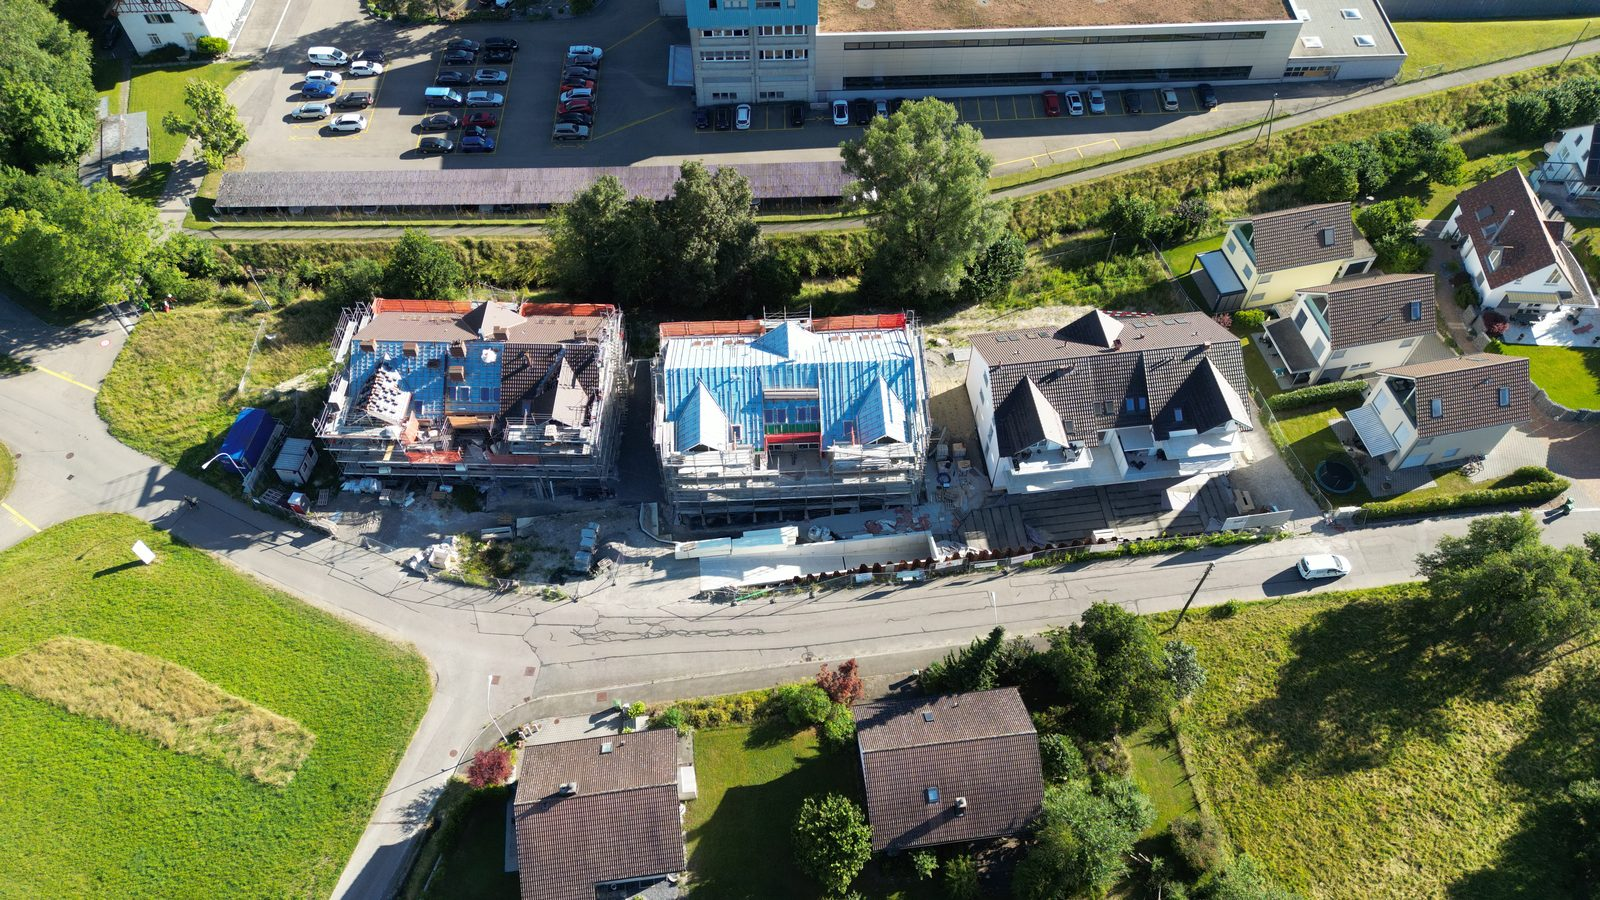
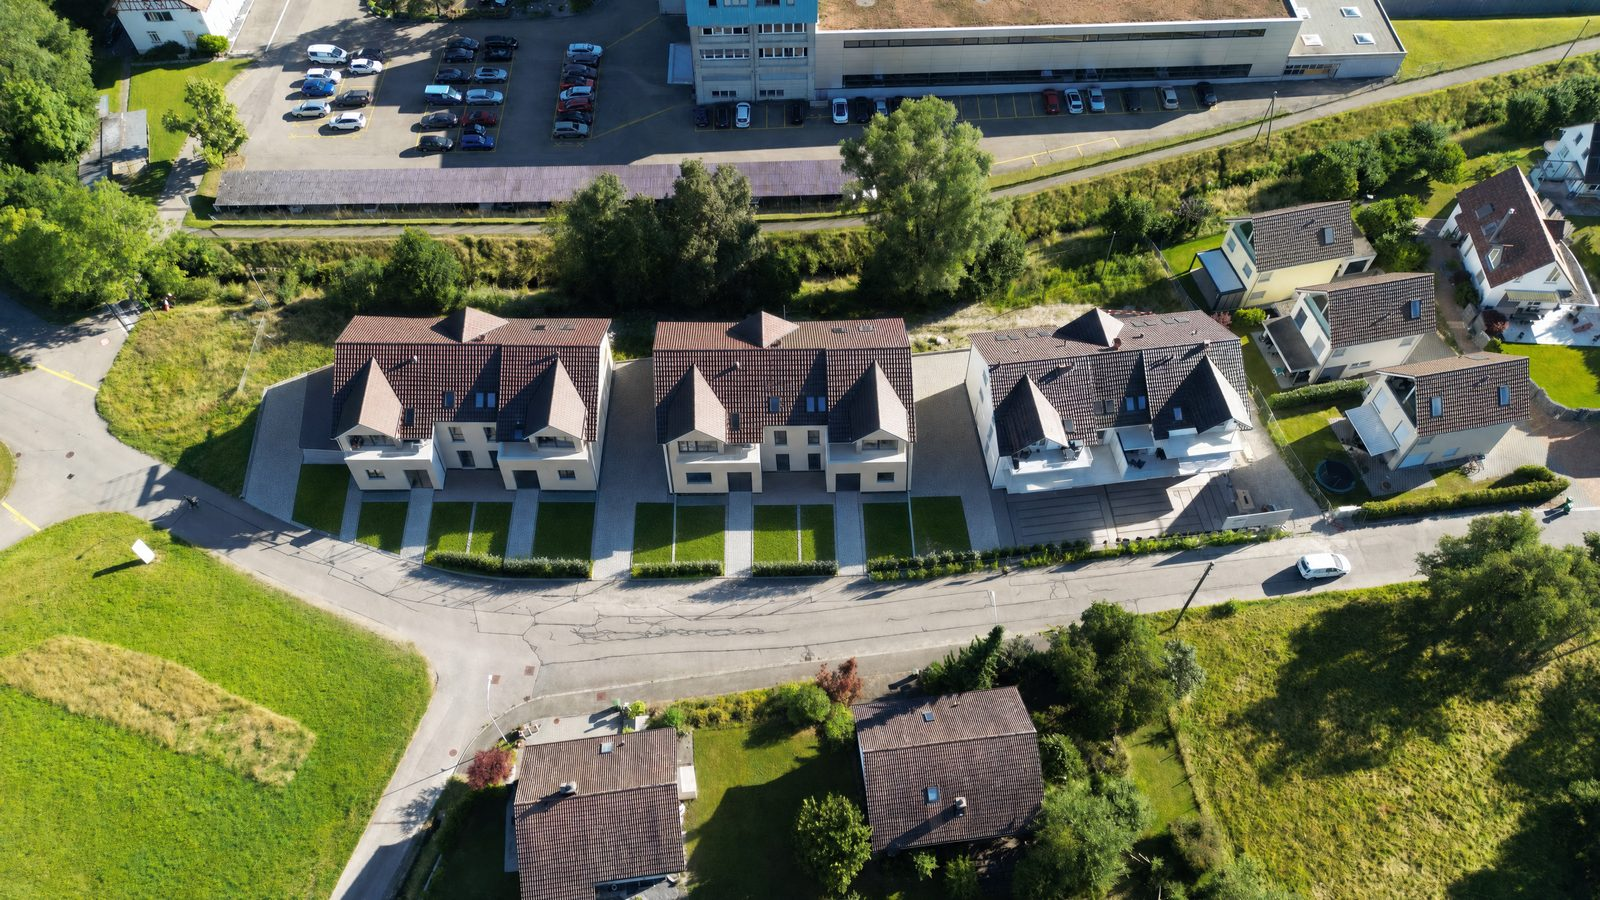
Niederweningen: KI-Visualisierung des Endzustands als Titelbild, klar gekennzeichnet
Thumbnail/Hero jetzt eine KI-bearbeitete Fassung der Drohnenaufnahme ohne
Baustelle (Gerüst, Baumaterial entfernt, Dach/Fassade als fertig
dargestellt). In Beschreibung und FAQ explizit als Visualisierung
gekennzeichnet, nicht als echtes Foto — die echten Baufortschritts-Fotos
bleiben unverändert in der Galerie.

diff --git a/src/data/projekte.ts b/src/data/projekte.ts
@@ -1096,7 +1096,7 @@ export const projekte: Projekt[] = [
     kategorien: ['Neubau', 'Wohnen'],
     leistungen: ['Projektierung'],
     beschreibung:
-      'Mehrfamilienhaus an der Murzelnstrasse in Niederweningen (ZH): zwei Neubauten neben einem bestehenden Gebäude, aktuell im Rohbau mit Dachstuhl und Fassade im Bau. Luftaufnahmen von der Baustelle dokumentieren den Baufortschritt.',
+      'Mehrfamilienhaus an der Murzelnstrasse in Niederweningen (ZH): zwei Neubauten neben einem bestehenden Gebäude. Das Titelbild ist eine KI-bearbeitete Visualisierung auf Basis einer Drohnenaufnahme und zeigt den geplanten Endzustand; die Galerie zeigt den echten Baufortschritt.',
     abschnitte: [],
     daten: [
       { label: 'Gebäudetyp', wert: 'Mehrfamilienhaus, Neubau' },
@@ -1104,9 +1104,9 @@ export const projekte: Projekt[] = [
     ],
     fragen: [
       {
-        frage: 'In welcher Bauphase ist das Projekt?',
+        frage: 'Ist das Titelbild ein echtes Foto vom fertigen Haus?',
         antwort:
-          'Die Rohbauten stehen, Dachstuhl und Fassade sind im Bau. Die Luftaufnahmen zeigen den aktuellen Baufortschritt. Fotos der fertiggestellten Häuser ergänzen wir nach Bezug.',
+          'Nein. Es ist eine KI-bearbeitete Visualisierung auf Basis einer Drohnenaufnahme der Baustelle und zeigt den geplanten Endzustand. Die Bauten sind aktuell im Rohbau, Dachstuhl und Fassade im Bau — echte Fotos vom aktuellen Baufortschritt finden Sie in der Galerie. Fotos der fertiggestellten Häuser ergänzen wir nach Bezug.',
       },
     ],
     thumbnail: '/images/projekte/mfh-niederweningen/thumb.jpg',
